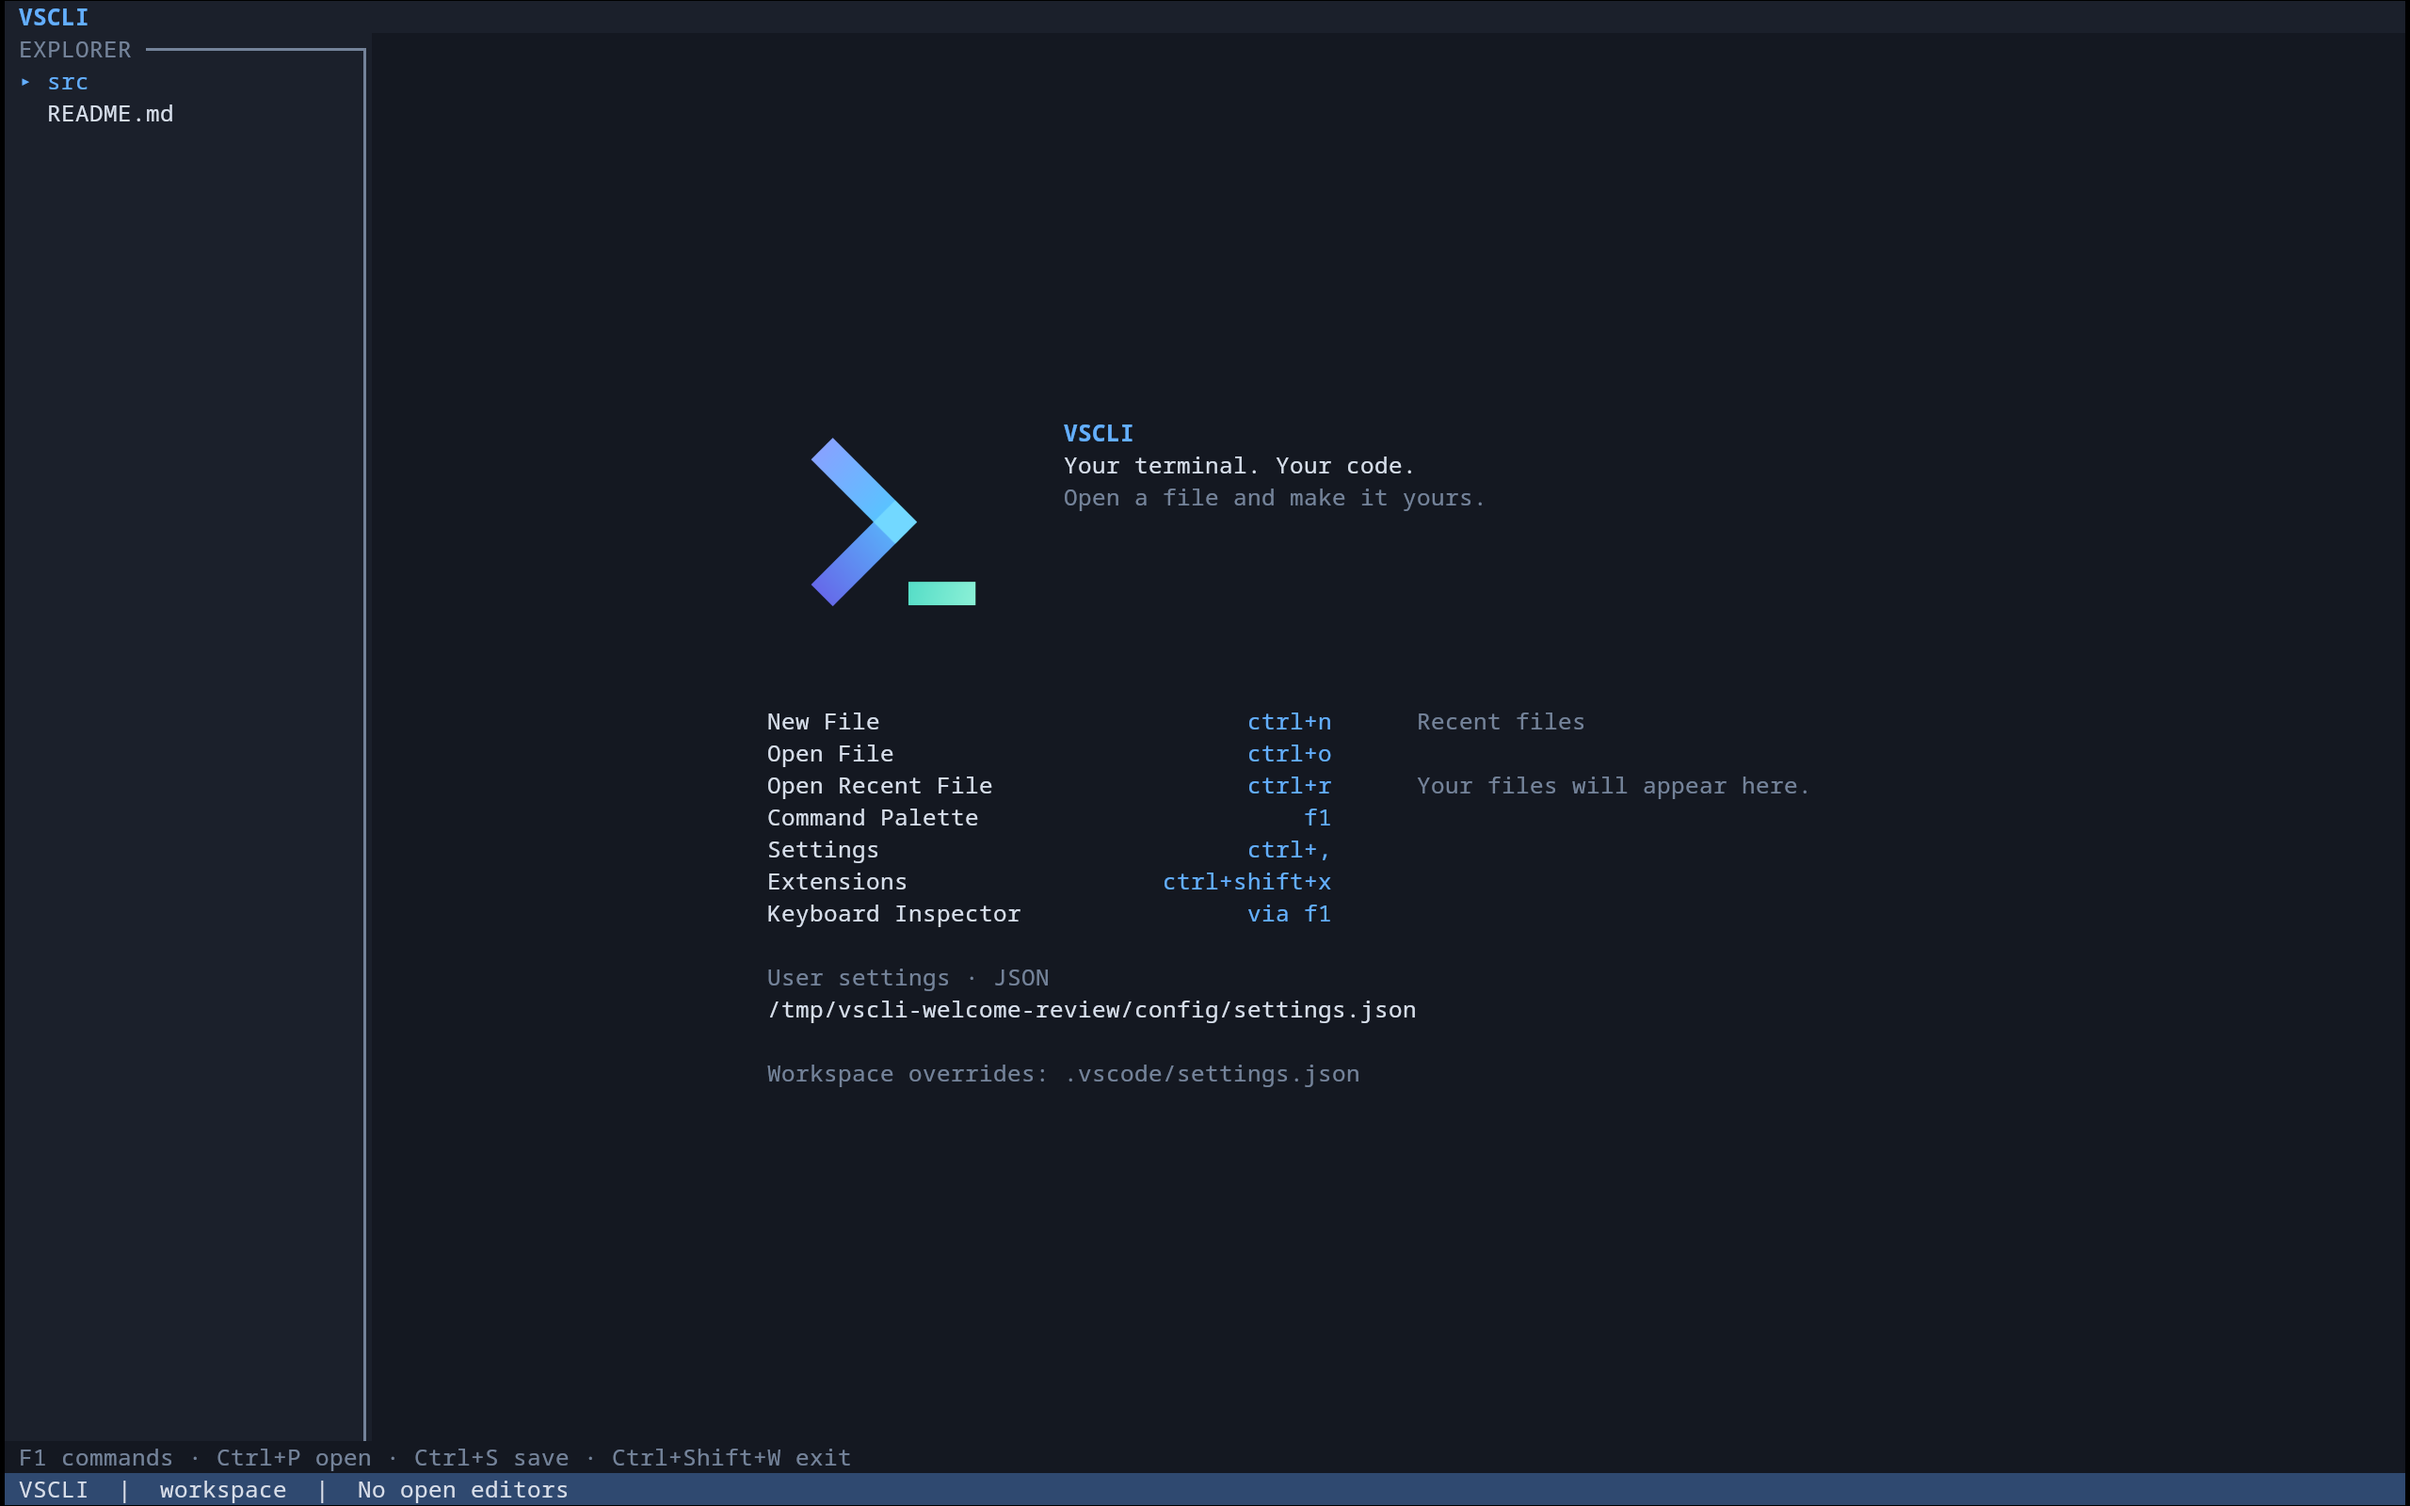
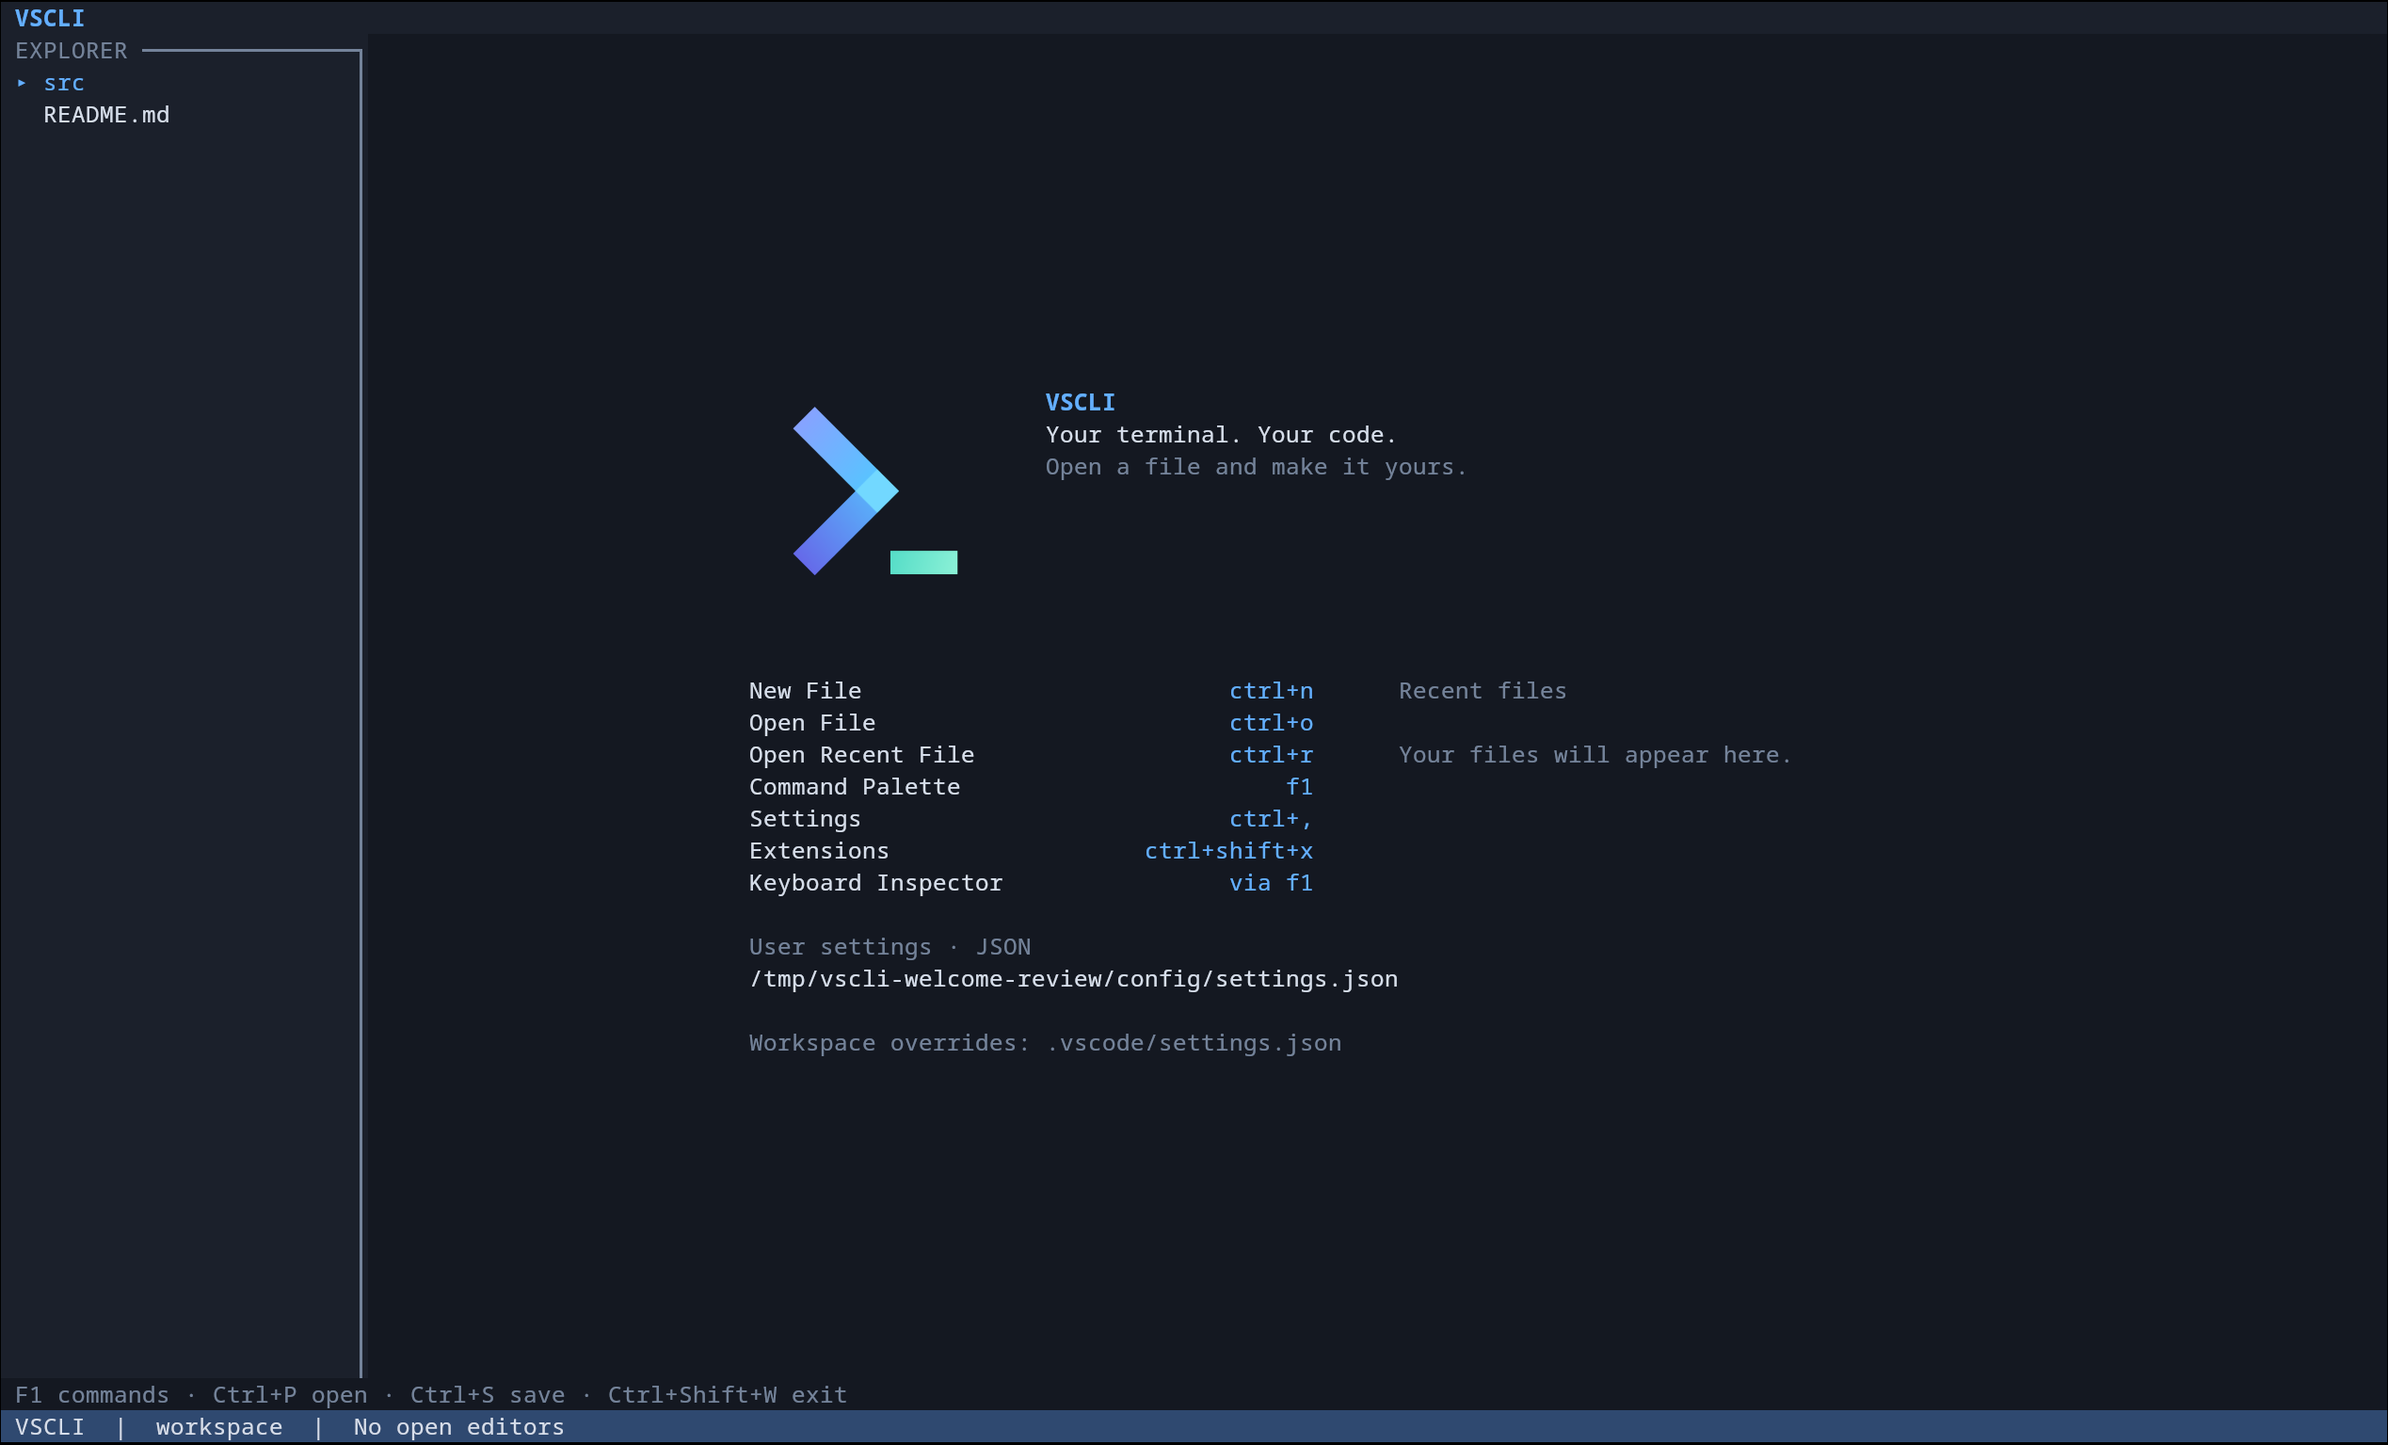
test: qualify combined welcome and keyboard inspector transitions

diff --git a/src/ui/welcome.rs b/src/ui/welcome.rs
@@ -182,7 +182,10 @@ pub(super) fn draw(frame: &mut Frame, app: &mut App, area: Rect) {
 #[cfg(test)]
 mod tests {
     use super::*;
-    use crossterm::event::{Event, KeyModifiers, MouseButton, MouseEvent, MouseEventKind};
+    use crossterm::event::{
+        Event, KeyCode, KeyEvent, KeyEventKind, KeyModifiers, MouseButton, MouseEvent,
+        MouseEventKind,
+    };
     use ratatui::{Terminal, backend::TestBackend};
     fn click(app: &mut App, rect: Rect) {
         app.event(Event::Mouse(MouseEvent {
@@ -224,7 +227,25 @@ mod tests {
         assert!(matches!(app.modal, Some(Modal::Inspector)));
         assert_eq!(app.hidden_documents[0].id, id);
         assert_eq!(app.hidden_documents[0].text.to_string(), "dirty saved");
-        app.modal = None;
+        terminal.draw(|f| super::super::draw(f, &mut app)).unwrap();
+        assert!(
+            app.welcome_actions.is_empty(),
+            "Inspector must clear prior hitboxes"
+        );
+        let release = KeyEvent::new_with_kind(
+            KeyCode::Char('s'),
+            KeyModifiers::CONTROL,
+            KeyEventKind::Release,
+        );
+        app.event(Event::Key(release));
+        assert_eq!(app.last_key, Some(release));
+        assert_eq!(app.keyboard.sequence, "ctrl+s");
+        click(&mut app, inspector);
+        assert!(app.documents.is_empty());
+        assert_eq!(app.hidden_documents[0].id, id);
+        assert_eq!(app.hidden_documents[0].text.to_string(), "dirty saved");
+        app.event(Event::Key(KeyEvent::new(KeyCode::Esc, KeyModifiers::NONE)));
+        assert!(app.modal.is_none());
         terminal.draw(|f| super::super::draw(f, &mut app)).unwrap();
         let new = app
             .welcome_actions

diff --git a/tests/welcome_brand_pty.py b/tests/welcome_brand_pty.py
@@ -66,6 +66,16 @@ def run(root, kitty):
     else:
         eventually(lambda: app.read() and any(c in ('▀', '▄') for c in app.screen.cells.values()))
         assert not app.screen.graphics
+    command(app, 'Keyboard Inspector')
+    wait(app, 'Keyboard Inspector · Esc closes')
+    assert not visible_graphic(app), 'Inspector must hide welcome image placeholders'
+    app.send(CTRL_S)
+    wait(app, 'Mapped command: workbench.action.files.save')
+    assert not (config / 'settings.json').exists()
+    app.send(b'\x1b')
+    wait(app, 'User settings')
+    if kitty:
+        eventually(lambda: app.read() and visible_graphic(app))
     command(app, 'Help: Getting Started')
     wait(app, 'start automatically')
     assert not visible_graphic(app)
@@ -105,7 +115,7 @@ def run(root, kitty):
     else:
         assert not app.screen.graphics
     assert source.read_bytes() == 'original 猫\r\n'.encode()
-    print('PASS: ' + ('Kitty' if kitty else 'cell fallback') + ' welcome → help → open/edit/cancel/save/undo → close/recents → resize → actual settings → cleanup')
+    print('PASS: ' + ('Kitty' if kitty else 'cell fallback') + ' welcome → inspector → help → open/edit/cancel/save/undo → close/recents → resize → actual settings → cleanup')
 
 
 if __name__ == '__main__':

diff --git a/docs/WELCOME.md b/docs/WELCOME.md
@@ -14,8 +14,8 @@ Kitty rendering uses Unicode image placeholders, compressed native pixel data an
 
 ## Evidence
 
-The graphical mark and final welcome were inspected in a real Kitty 0.49.2 window on Linux, including physical cell sizing and transparency. [Kitty screenshot](images/welcome-kitty.png) and [cell fallback screenshot](images/welcome-cells.png) show the two paths. These checks do not establish arbitrary terminal or multiplexer graphics parity.
+The graphical mark and final welcome were inspected in a real Kitty 0.49.2 window on Linux, including physical cell sizing and transparency. [Kitty screenshot](images/welcome-kitty.png) and [cell fallback screenshot](images/welcome-cells.png) show the two paths at 169 × 45 cells. The smaller 93 × 25 window preserves the mark and settings path in both [Kitty](images/welcome-kitty-narrow.png) and [cell fallback](images/welcome-cells-narrow.png). The combined workbench also shows the [keyboard diagram](images/keyboard-inspector.png) and its [compact view](images/keyboard-inspector-compact.png); entering the inspector clears welcome placements and hitboxes while retaining hidden dirty buffers. These checks do not establish arbitrary terminal or multiplexer graphics parity.
 
-Native tests cover encoded/decode/cell/pixel budgets, conservative mode detection, occupied-worker coalescing and late replies, process-ID reuse and scoped replacement, image hide/show, responsive layouts, shortcut overrides, actual settings paths, click dispatch and dirty hidden-buffer preservation. `tests/welcome_brand_pty.py` runs real fallback and Kitty-wire PTYs through welcome/help/open/edit/cancel/save/undo/close/recent/resize/settings/exit. The Kitty PTY supplies cell pixel dimensions and observes transmission/deletion; it is a protocol lifecycle oracle, while the screenshot is the actual graphical-terminal observation.
+Native tests cover encoded/decode/cell/pixel budgets, conservative mode detection, occupied-worker coalescing and late replies, process-ID reuse and scoped replacement, image hide/show, responsive layouts, shortcut overrides, actual settings paths, click dispatch and dirty hidden-buffer preservation. `tests/welcome_brand_pty.py` runs real fallback and Kitty-wire PTYs through welcome/inspector/help/open/edit/cancel/save/undo/close/recent/resize/settings/exit. The Kitty PTY supplies cell pixel dimensions and observes transmission/deletion; it is a protocol lifecycle oracle, while the screenshot is the actual graphical-terminal observation.
 
 The graphics contract follows the [Kitty graphics protocol](https://sw.kovidgoyal.net/kitty/graphics-protocol/) and uses [ratatui-image 11.1.0](https://docs.rs/ratatui-image/11.1.0/ratatui_image/) with default features disabled. Only direct cached Kitty/half-block constructors are used.
